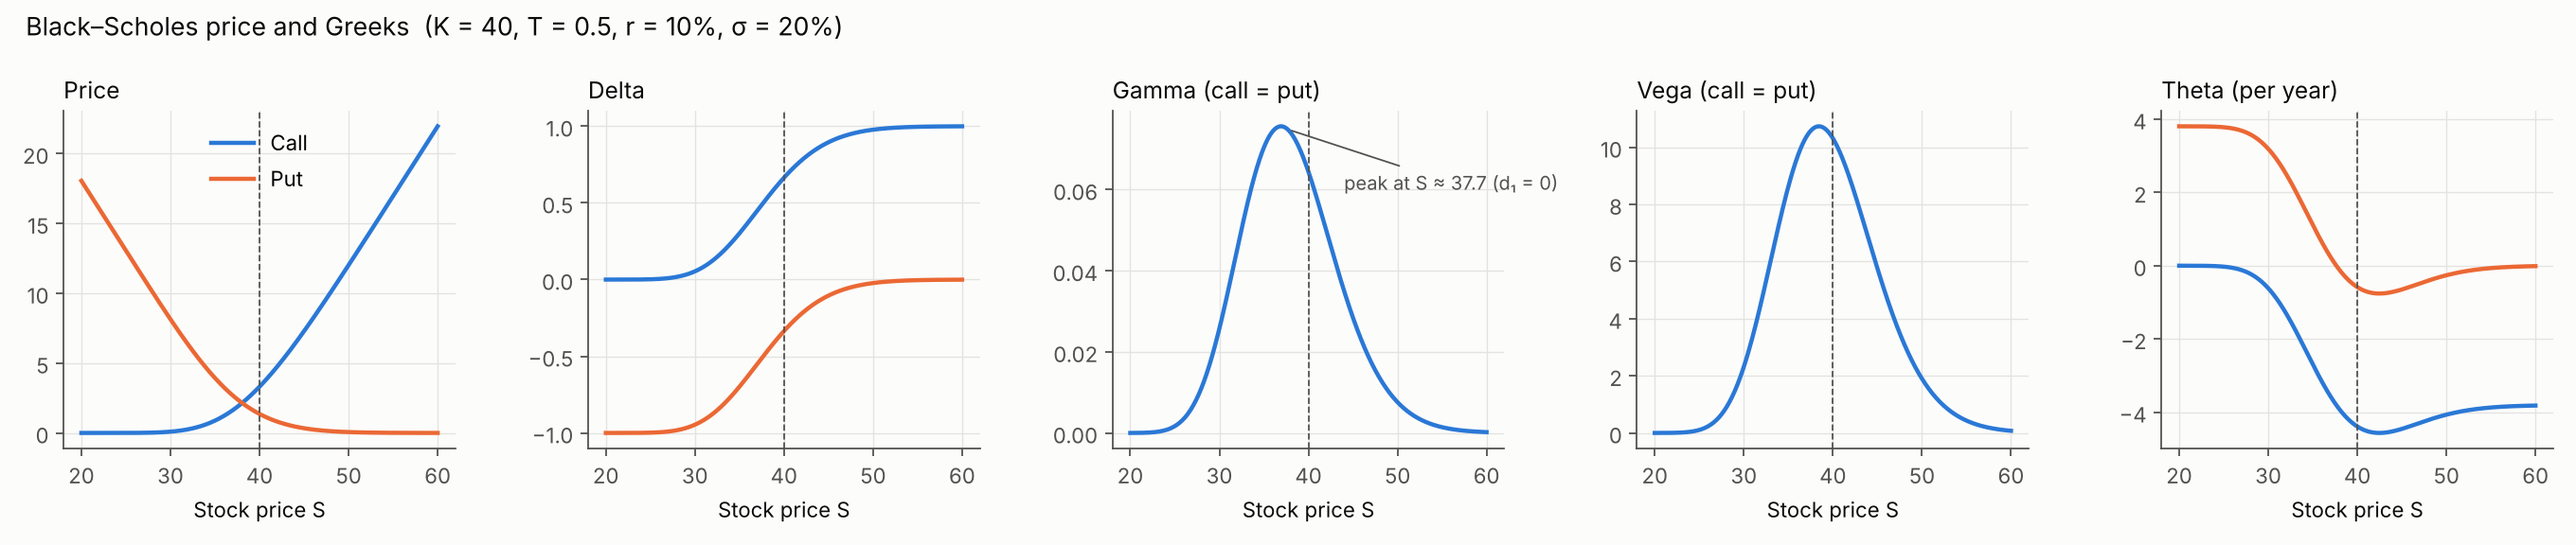
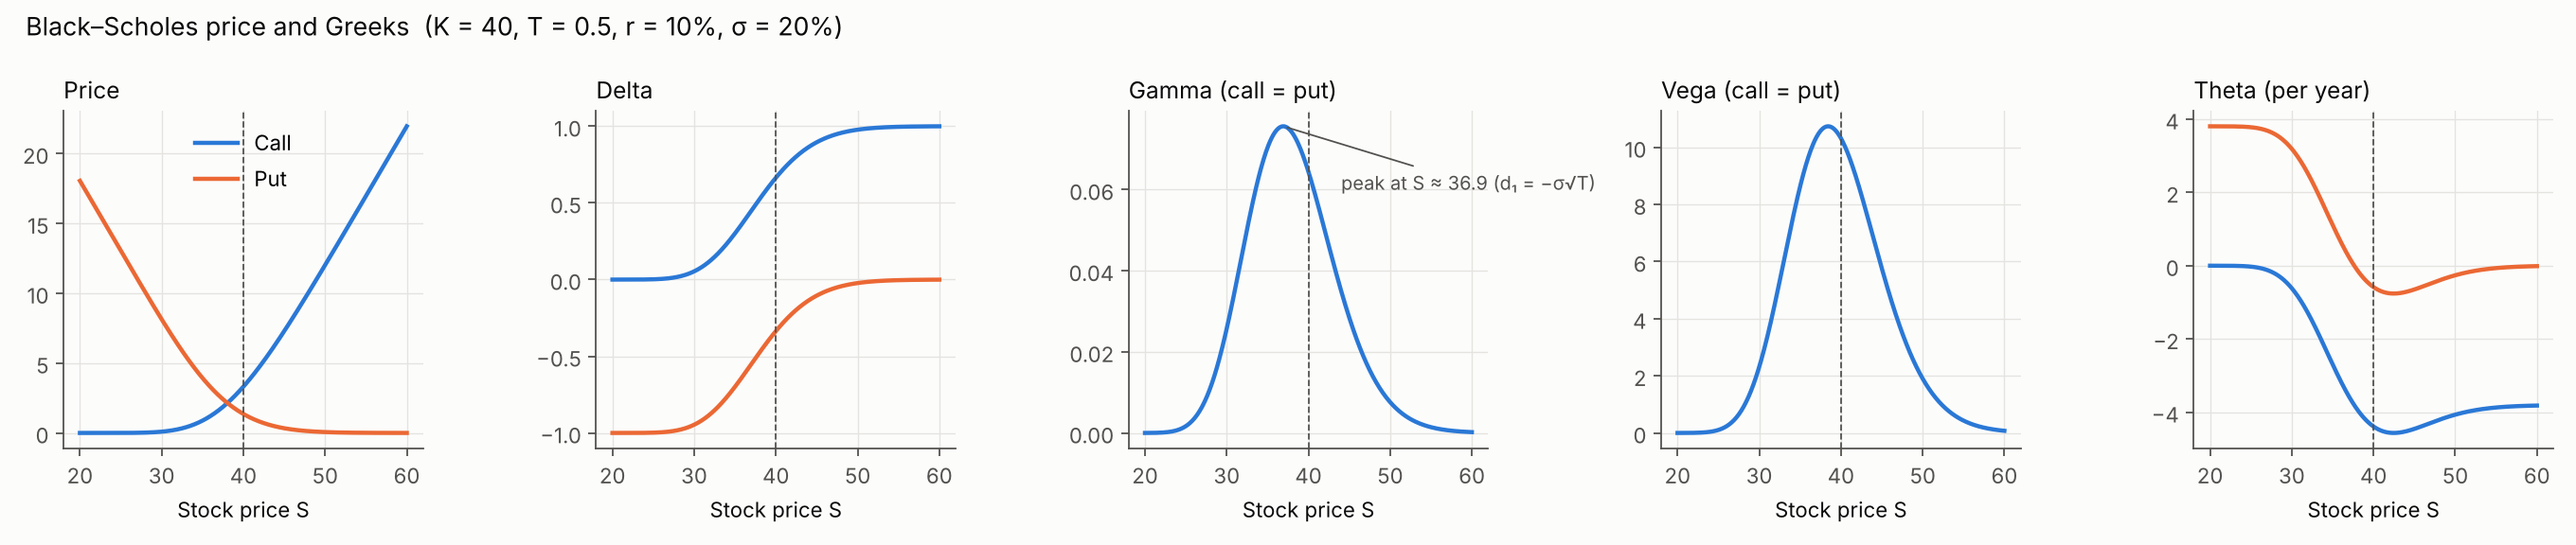
Fix Gamma peak location: d1 = -sigma*sqrt(T), not d1 = 0
Gamma = n(d1) / (S sigma sqrt(T)) has an extra 1/S factor, so its
maximum in S is at d1 = -sigma*sqrt(T) (S ~ 36.9 for the Hull example),
not at d1 = 0 (S ~ 37.7). Verified by a numerical search over S.
Updates the README text and the plot annotation, and regenerates
docs/greeks.png.

Claude-Session: https://claude.ai/code/session_01WfzXaxQmxzy3CSNE5oDZby

diff --git a/examples/plot_greeks.py b/examples/plot_greeks.py
@@ -31,8 +31,8 @@ def greeks_figure(path):
         ax.set_title(title, color=INK, loc="left", fontsize=11)
         ax.set_xlabel("Stock price S")
     axes[0].legend(frameon=False)
-    s_peak = K * np.exp(-(r + 0.5 * sigma**2) * T)   # where d1 = 0
-    axes[2].annotate(f"peak at S ≈ {s_peak:.1f} (d₁ = 0)", xy=(s_peak, gamma(s_peak, K, T, r, sigma)), xytext=(44, 0.06),
+    s_peak = K * np.exp(-(r + 1.5 * sigma**2) * T)   # where d1 = -sigma*sqrt(T)
+    axes[2].annotate(f"peak at S ≈ {s_peak:.1f} (d₁ = −σ√T)", xy=(s_peak, gamma(s_peak, K, T, r, sigma)), xytext=(44, 0.06),
                      color=MUTED, fontsize=9, arrowprops=dict(arrowstyle="-", color=MUTED, lw=0.8))
     fig.suptitle(f"Black–Scholes price and Greeks  (K = {K}, T = {T}, r = {r:.0%}, σ = {sigma:.0%})",
                  color=INK, x=0.01, ha="left", fontsize=12)

diff --git a/README.md b/README.md
@@ -46,7 +46,7 @@ For the Hull example: call Delta 0.779, put Delta −0.221, Gamma 0.0500, Vega 8
 ![Black–Scholes price and Greeks against the stock price](docs/greeks.png)
 
 - **Delta** moves from 0 to 1 for a call (−1 to 0 for a put); call Delta − put Delta = 1 at every price.
-- **Gamma and Vega** are bell-shaped and identical for calls and puts. Gamma peaks where d1 = 0, at S = K e^(−(r + σ²/2)T) ≈ 37.7, slightly below the strike.
+- **Gamma and Vega** are bell-shaped and identical for calls and puts. Gamma peaks where d1 = −σ√T, at S = K e^(−(r + 3σ²/2)T) ≈ 36.9, below the strike. (Setting d1 = 0 would miss the extra 1/S factor in Gamma = n(d1) / (S σ √T).)
 - **Theta** is negative for calls. For a deep in-the-money European put it turns positive: the put is worth roughly K e^(−rT) − S, and that discounted strike grows as expiry approaches.
 
 ![Monte Carlo estimate converging to the Black–Scholes price](docs/mc_convergence.png)
